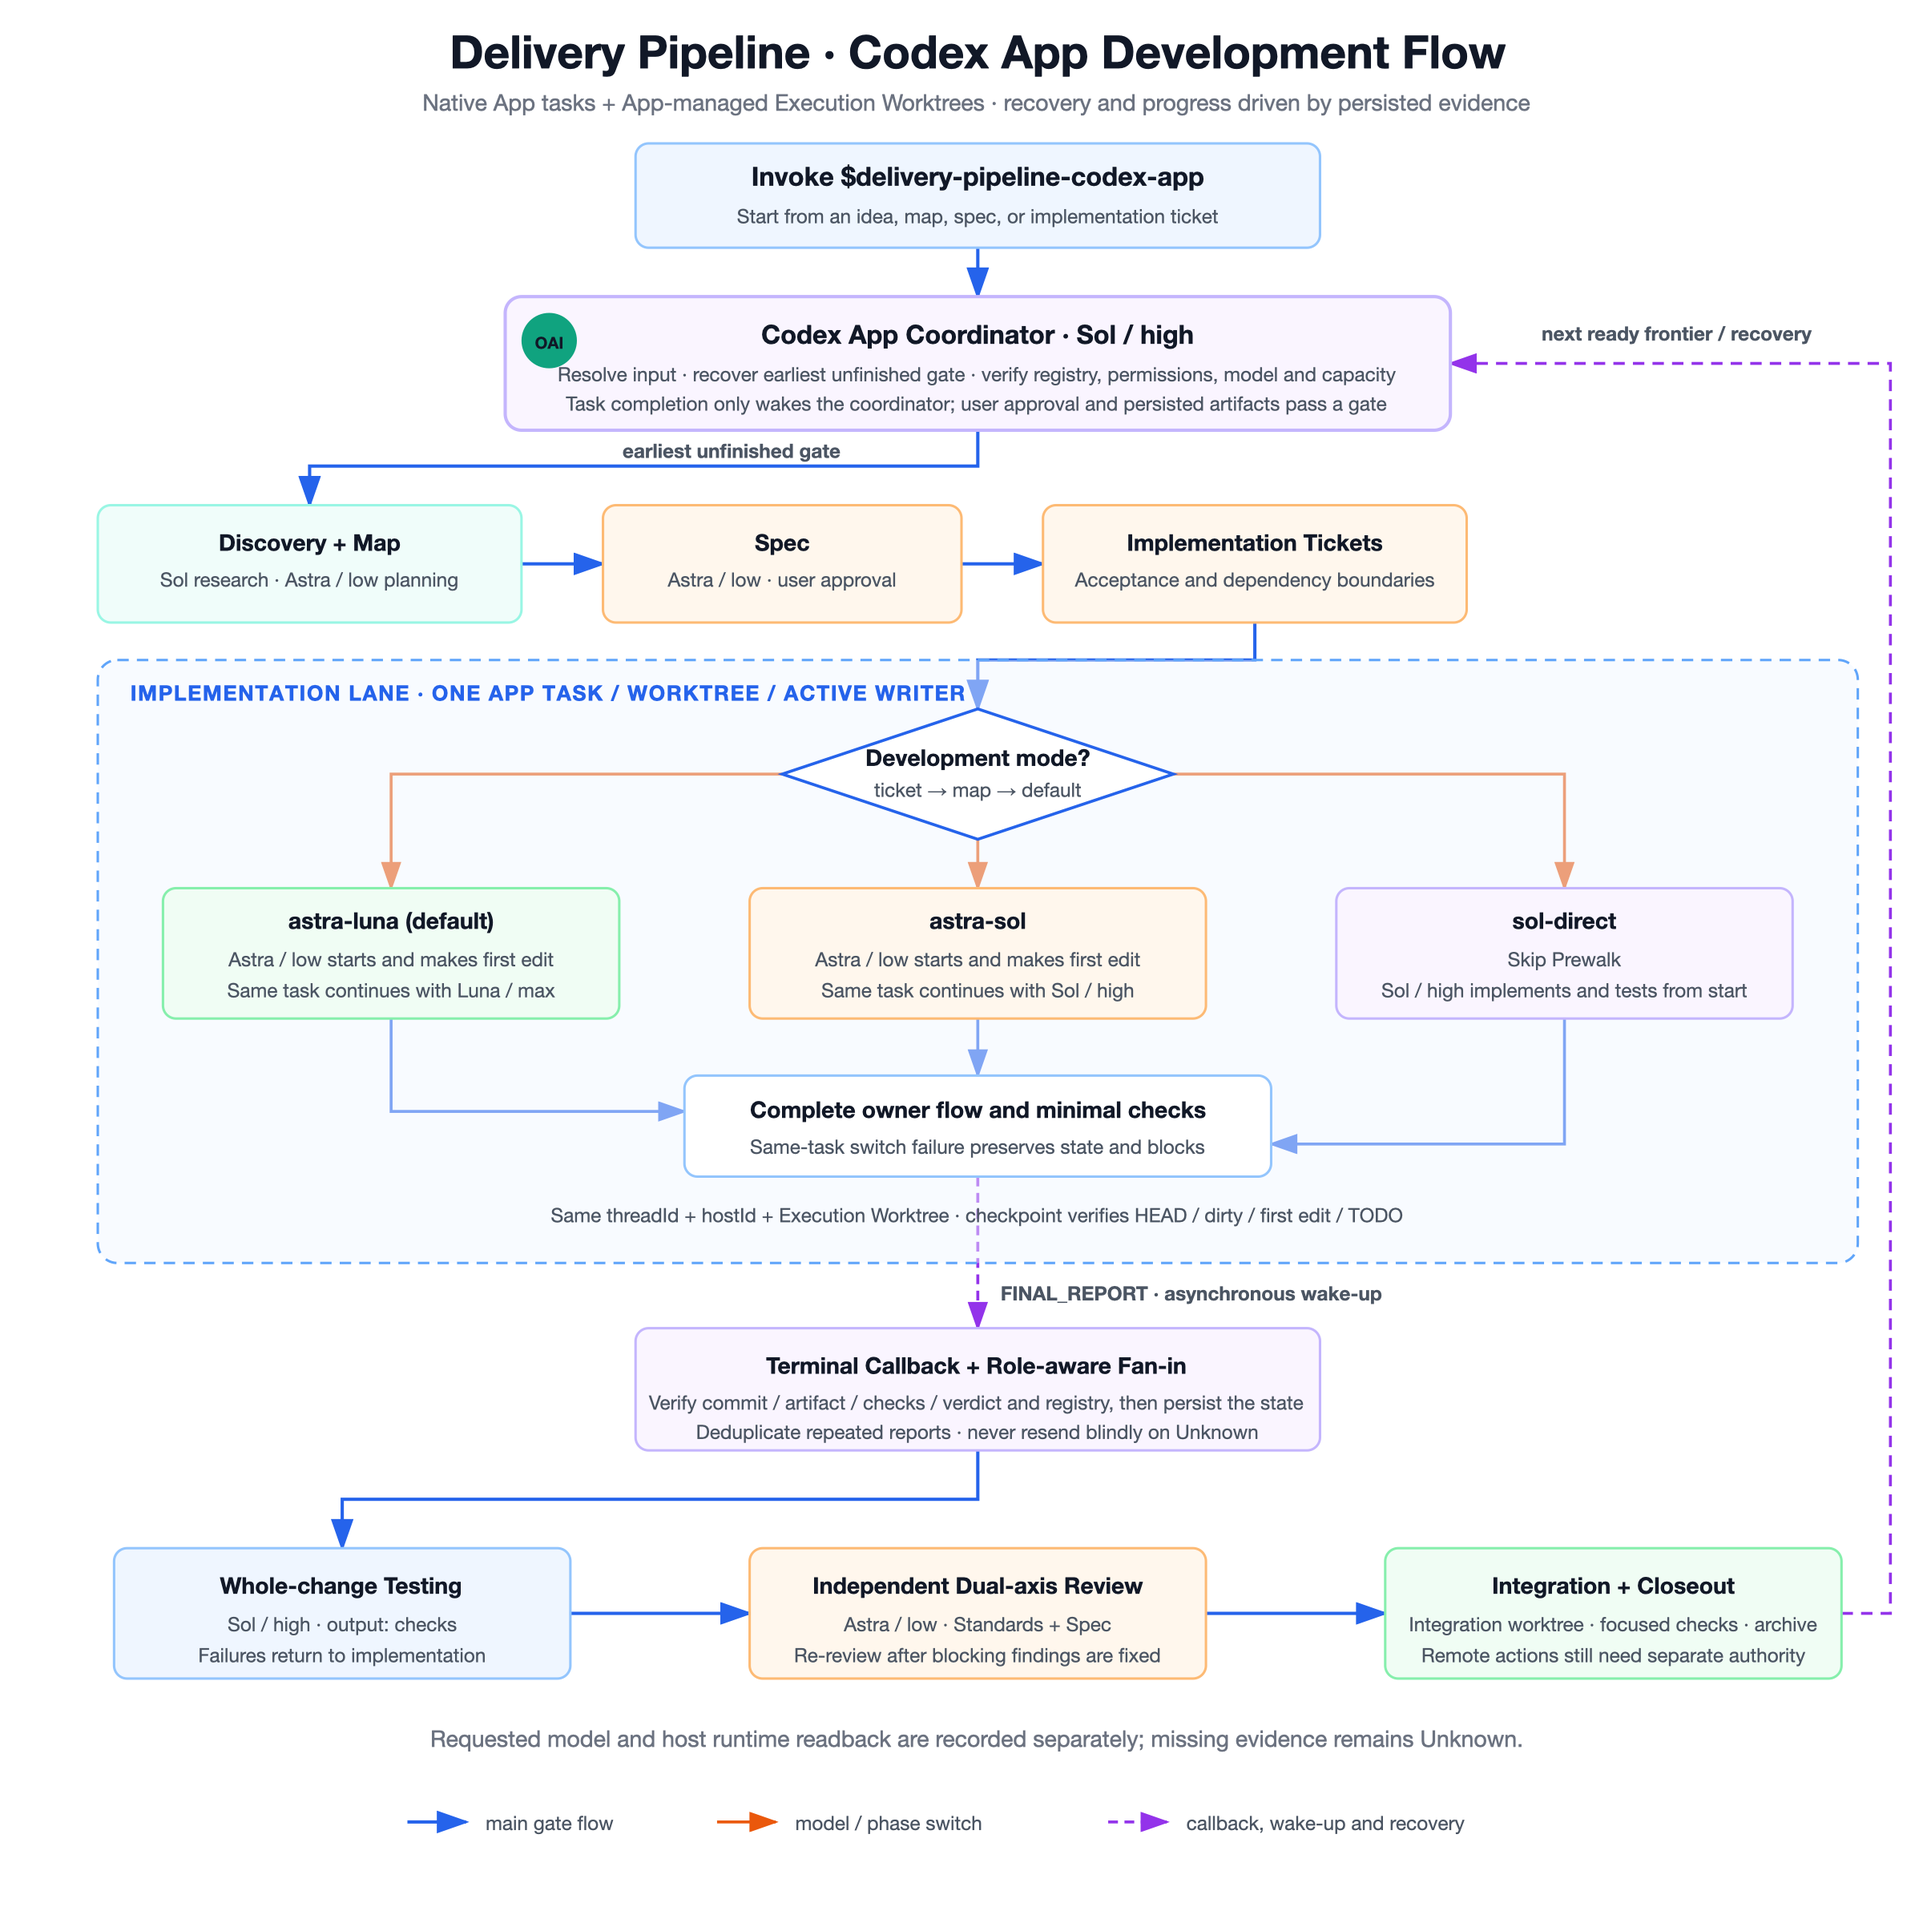
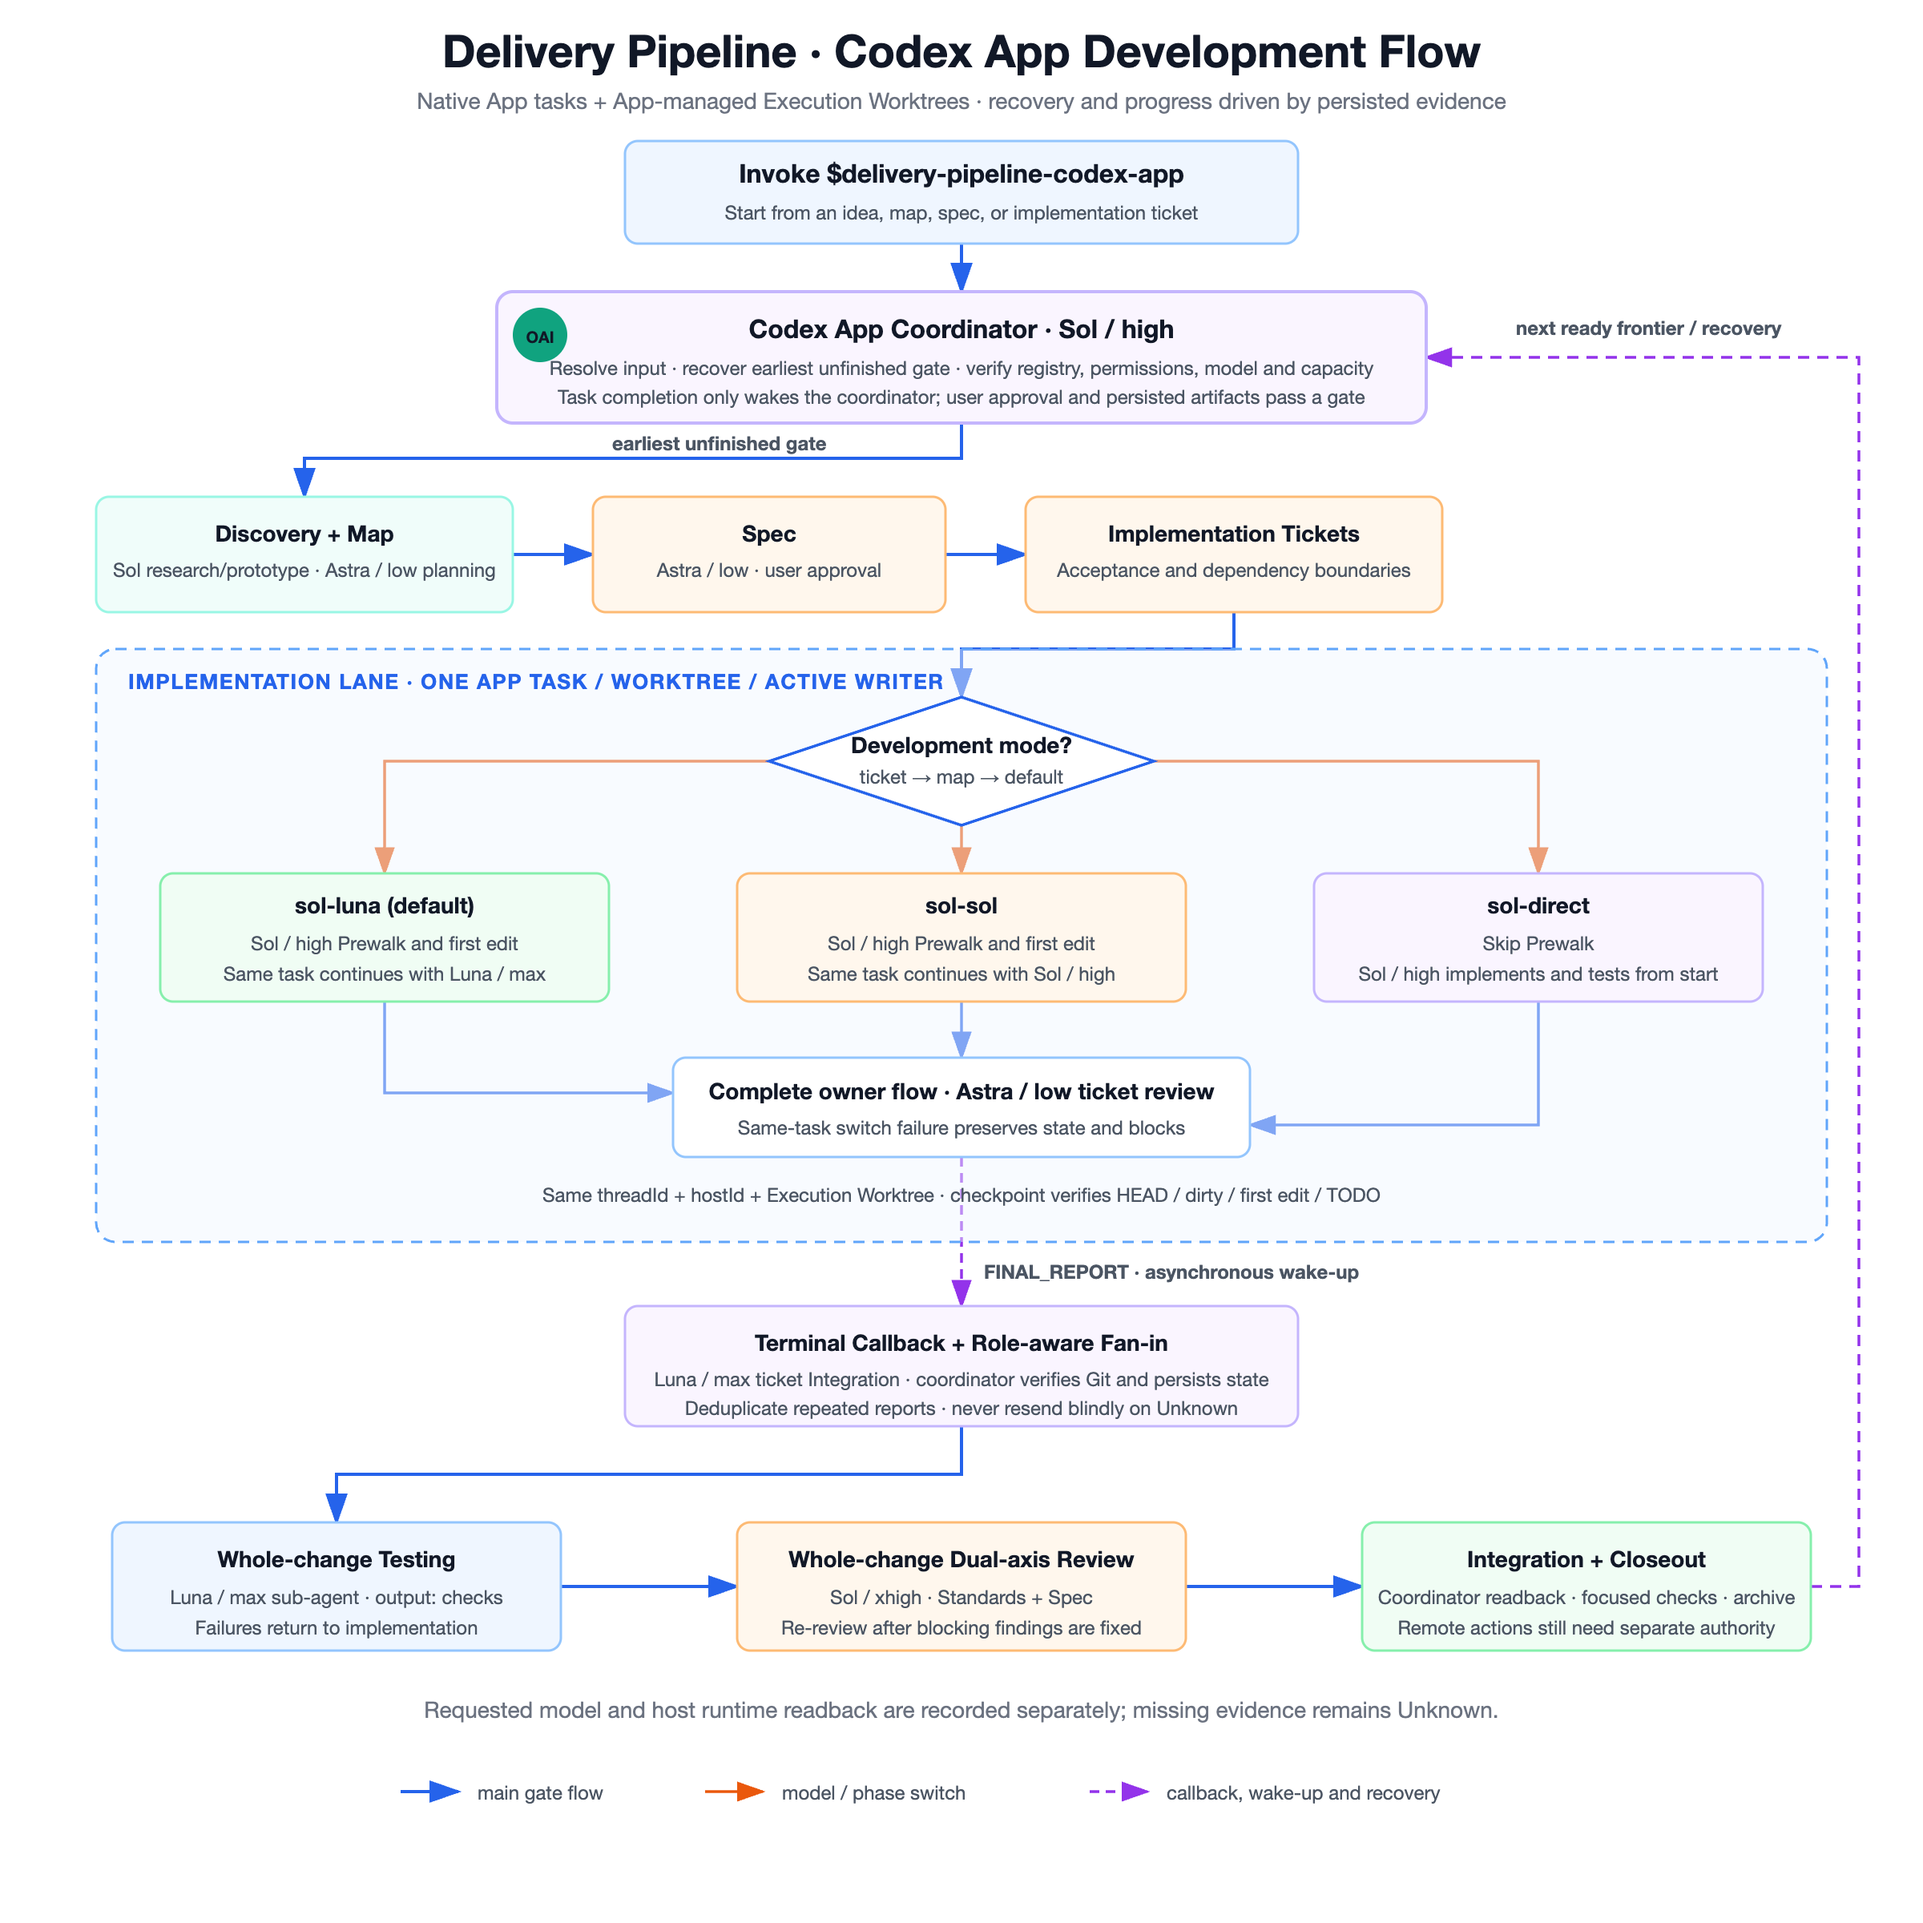
docs(codex-app): 同步模型路由说明与开发流程图
问题:
- 双语 README 与开发流程图仍展示旧 astra 默认及合并的测试/评审路径。

变更:
- 更新中英文 README、SVG 与 PNG 流程图，反映 Sol/high 起步、Luna/max 测试与集成、Astra/low 实施票 Review、Sol/xhigh whole-change Review，以及用户可覆盖的参考默认值。

原因:
- 让公开说明与已提交的 Codex App 合同保持一致，降低按旧图操作的风险。

验证:
- python3 scripts/validate.py
- git diff --cached --check

风险:
- 仅更新说明和生成图资产；未执行外部 App 端到端验证。

diff --git a/README.md b/README.md
@@ -89,8 +89,13 @@ The App shell uses native tasks and App-managed Execution Worktrees and does not
 role configuration. To use Herdr from a Codex App session, exit the App shell and invoke canonical
 `delivery-pipeline`.
 
-New implementation lanes default to `astra-luna` (Astra low → Luna max); request `astra-sol` for one ticket or
-`sol-direct` for subsequent new lanes. Prewalk continues in the same task history. Every invocation
+Models, reasoning efforts, and fast settings are reference defaults; explicit user choices may override them
+per task, phase, or map. Sol/high is recommended for coordination.
+
+New implementation lanes default to `sol-luna` (Sol high → Luna max); request `sol-sol` for one ticket or
+`sol-direct` for subsequent new lanes. Prewalk continues in the same task history. Implementation reviews use
+Astra low; whole-change reviews use Sol xhigh. Whole-change Testing and ticket Integration run as separate
+Luna max sub-agents. Every invocation
 checks models, internal concurrency, and permissions; this repository's project configuration does
 not propagate through Skill symlinks. See the [App development contract](skills/delivery-pipeline-codex-app/references/development-mode.md)
 for invocation steps and evidence limits.
@@ -98,7 +103,7 @@ for invocation steps and evidence limits.
 #### Codex App development flow
 
 The flow below shows gate recovery, the three implementation modes, same-task Prewalk continuation,
-terminal fan-in, whole-change testing, dual-axis review, and Integration closeout.
+terminal fan-in, separate whole-change testing, scope-aware dual-axis review, and Integration closeout.
 
 [![Delivery Pipeline Codex App development flow](docs/images/delivery-pipeline-codex-app-flow.en.svg)](docs/images/delivery-pipeline-codex-app-flow.en.svg)
 
